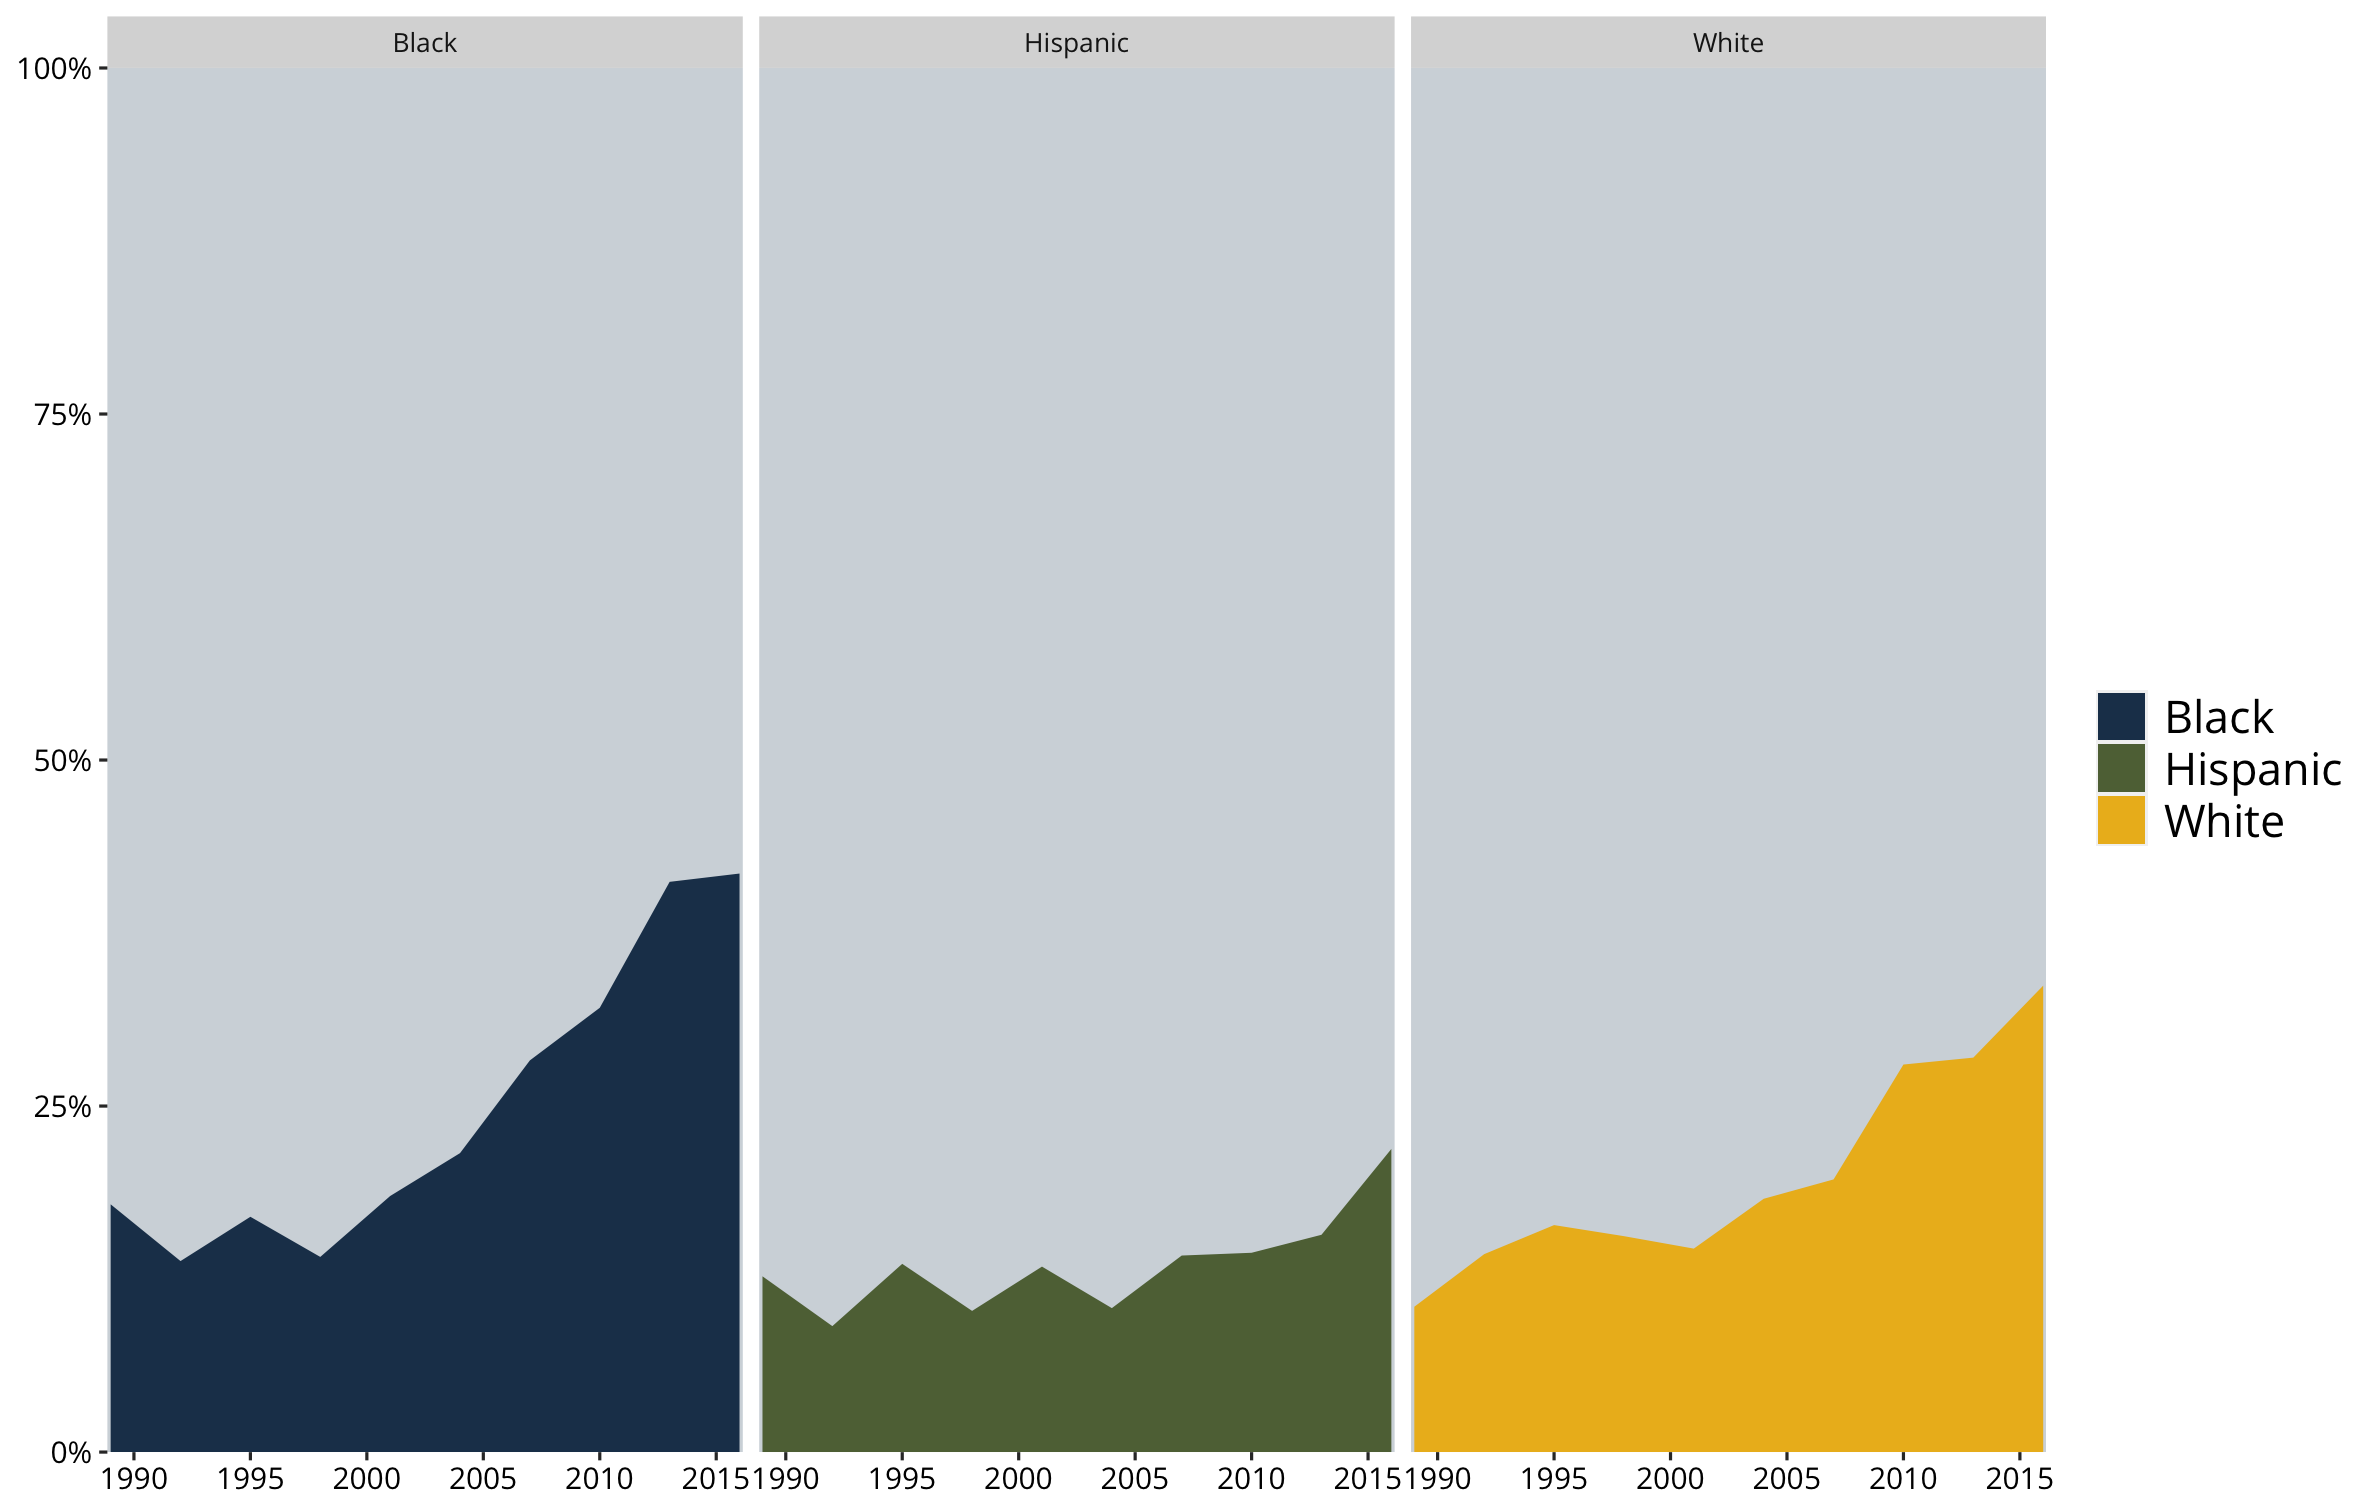
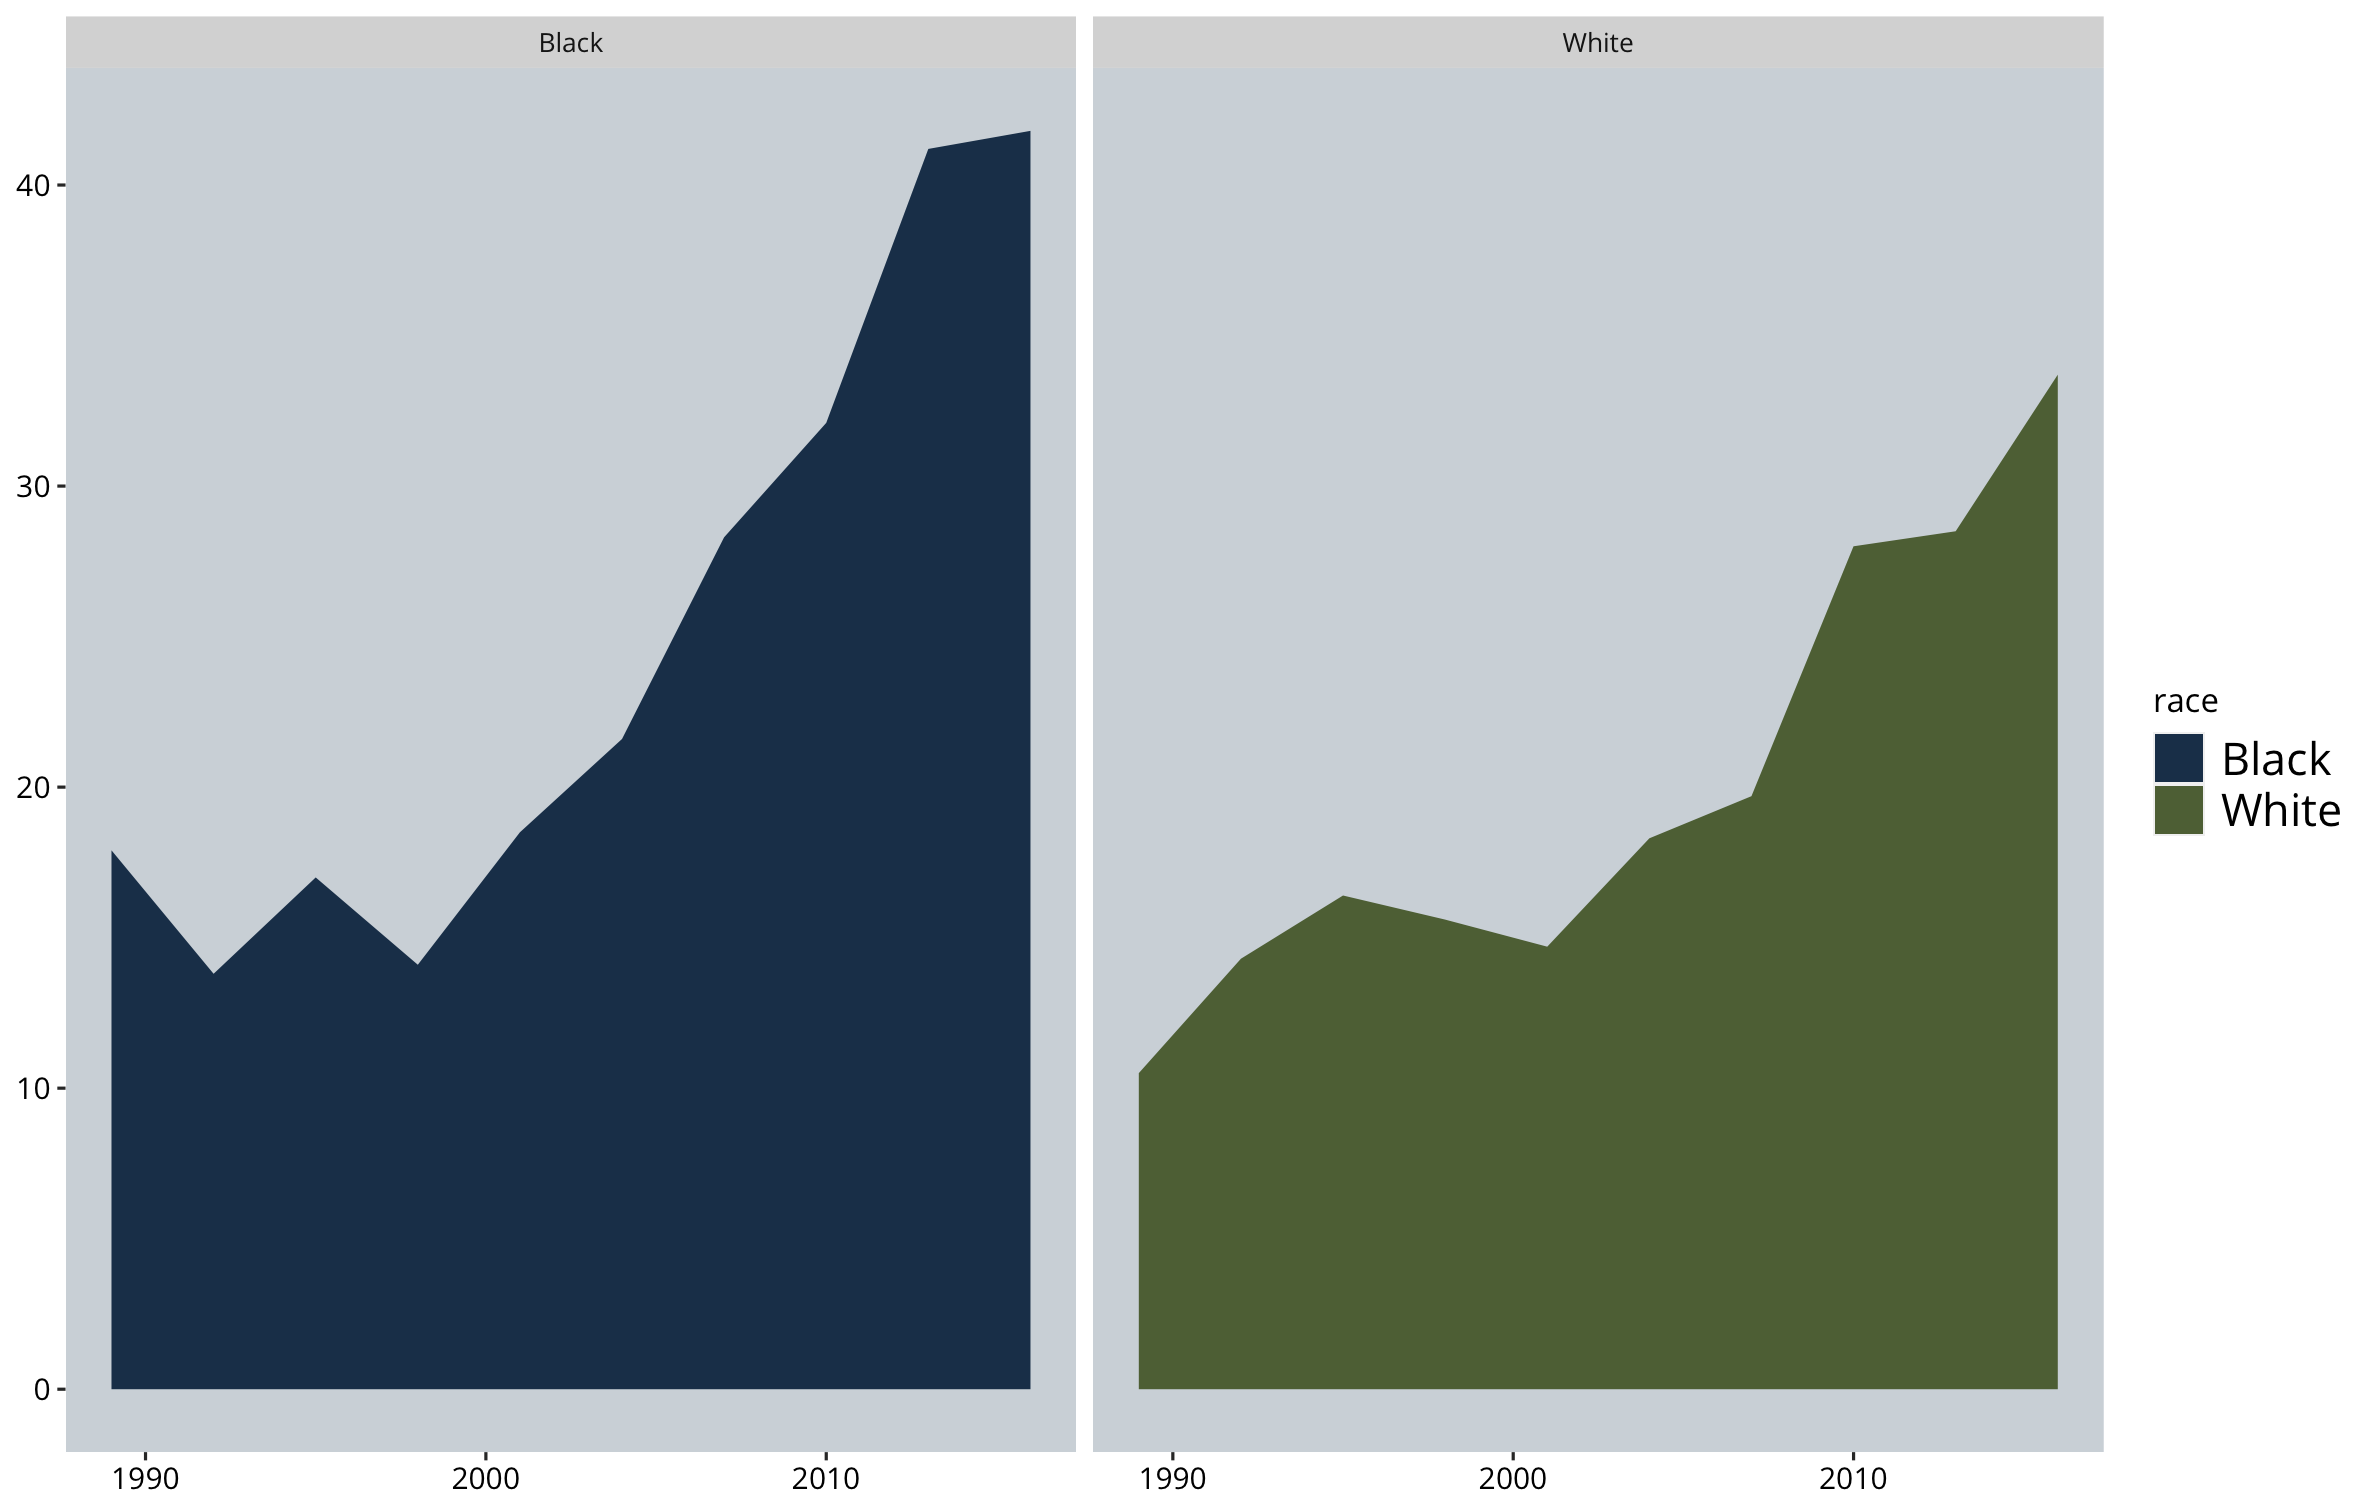
reduced charts two only two groups

diff --git a/charts.html b/charts.html
@@ -207,7 +207,7 @@ class: transition-slide, middle, center
 
 ---
 class: transition-slide
-## .my-green[Time Available in Workday:] .my-yellow["Wow look at all of my free time"]
+## .my-green[Time Available in Workday:] .my-yellow["An abundance of time"]
 
 .pull-left[
 .center[
@@ -268,13 +268,12 @@ class: transition-slide
  &lt;thead&gt;
 &lt;tr&gt;
 &lt;th style="empty-cells: hide;" colspan="1"&gt;&lt;/th&gt;
-&lt;th style="padding-bottom:0; padding-left:3px;padding-right:3px;text-align: center; " colspan="3"&gt;&lt;div style="border-bottom: 1px solid #111111; margin-bottom: -1px; "&gt;% of families with debt&lt;/div&gt;&lt;/th&gt;
+&lt;th style="padding-bottom:0; padding-left:3px;padding-right:3px;text-align: center; " colspan="2"&gt;&lt;div style="border-bottom: 1px solid #111111; margin-bottom: -1px; "&gt;% of families with debt&lt;/div&gt;&lt;/th&gt;
 &lt;/tr&gt;
   &lt;tr&gt;
    &lt;th style="text-align:left;"&gt; Year &lt;/th&gt;
    &lt;th style="text-align:right;"&gt; White &lt;/th&gt;
    &lt;th style="text-align:right;"&gt; Black &lt;/th&gt;
-   &lt;th style="text-align:right;"&gt; Hispanic &lt;/th&gt;
   &lt;/tr&gt;
  &lt;/thead&gt;
 &lt;tbody&gt;
@@ -282,61 +281,51 @@ class: transition-slide
    &lt;td style="text-align:left;"&gt; 1989 &lt;/td&gt;
    &lt;td style="text-align:right;"&gt; 10.5 &lt;/td&gt;
    &lt;td style="text-align:right;"&gt; 17.9 &lt;/td&gt;
-   &lt;td style="text-align:right;"&gt; 12.7 &lt;/td&gt;
   &lt;/tr&gt;
   &lt;tr&gt;
    &lt;td style="text-align:left;"&gt; 1992 &lt;/td&gt;
    &lt;td style="text-align:right;"&gt; 14.3 &lt;/td&gt;
    &lt;td style="text-align:right;"&gt; 13.8 &lt;/td&gt;
-   &lt;td style="text-align:right;"&gt; 9.1 &lt;/td&gt;
   &lt;/tr&gt;
   &lt;tr&gt;
    &lt;td style="text-align:left;"&gt; 1995 &lt;/td&gt;
    &lt;td style="text-align:right;"&gt; 16.4 &lt;/td&gt;
    &lt;td style="text-align:right;"&gt; 17.0 &lt;/td&gt;
-   &lt;td style="text-align:right;"&gt; 13.6 &lt;/td&gt;
   &lt;/tr&gt;
   &lt;tr&gt;
    &lt;td style="text-align:left;"&gt; 1998 &lt;/td&gt;
    &lt;td style="text-align:right;"&gt; 15.6 &lt;/td&gt;
    &lt;td style="text-align:right;"&gt; 14.1 &lt;/td&gt;
-   &lt;td style="text-align:right;"&gt; 10.2 &lt;/td&gt;
   &lt;/tr&gt;
   &lt;tr&gt;
    &lt;td style="text-align:left;"&gt; 2001 &lt;/td&gt;
    &lt;td style="text-align:right;"&gt; 14.7 &lt;/td&gt;
    &lt;td style="text-align:right;"&gt; 18.5 &lt;/td&gt;
-   &lt;td style="text-align:right;"&gt; 13.4 &lt;/td&gt;
   &lt;/tr&gt;
   &lt;tr&gt;
    &lt;td style="text-align:left;"&gt; 2004 &lt;/td&gt;
    &lt;td style="text-align:right;"&gt; 18.3 &lt;/td&gt;
    &lt;td style="text-align:right;"&gt; 21.6 &lt;/td&gt;
-   &lt;td style="text-align:right;"&gt; 10.4 &lt;/td&gt;
   &lt;/tr&gt;
   &lt;tr&gt;
    &lt;td style="text-align:left;"&gt; 2007 &lt;/td&gt;
    &lt;td style="text-align:right;"&gt; 19.7 &lt;/td&gt;
    &lt;td style="text-align:right;"&gt; 28.3 &lt;/td&gt;
-   &lt;td style="text-align:right;"&gt; 14.2 &lt;/td&gt;
   &lt;/tr&gt;
   &lt;tr&gt;
    &lt;td style="text-align:left;"&gt; 2010 &lt;/td&gt;
    &lt;td style="text-align:right;"&gt; 28.0 &lt;/td&gt;
    &lt;td style="text-align:right;"&gt; 32.1 &lt;/td&gt;
-   &lt;td style="text-align:right;"&gt; 14.4 &lt;/td&gt;
   &lt;/tr&gt;
   &lt;tr&gt;
    &lt;td style="text-align:left;"&gt; 2013 &lt;/td&gt;
    &lt;td style="text-align:right;"&gt; 28.5 &lt;/td&gt;
    &lt;td style="text-align:right;"&gt; 41.2 &lt;/td&gt;
-   &lt;td style="text-align:right;"&gt; 15.7 &lt;/td&gt;
   &lt;/tr&gt;
   &lt;tr&gt;
    &lt;td style="text-align:left;"&gt; 2016 &lt;/td&gt;
    &lt;td style="text-align:right;"&gt; 33.7 &lt;/td&gt;
    &lt;td style="text-align:right;"&gt; 41.8 &lt;/td&gt;
-   &lt;td style="text-align:right;"&gt; 21.9 &lt;/td&gt;
   &lt;/tr&gt;
 &lt;/tbody&gt;
 &lt;/table&gt;
@@ -542,6 +531,10 @@ class: transition-slide
 ### Moderate amount
 &lt;img src="charts_files/figure-html/unnamed-chunk-24-1.png" width="792" style="display: block; margin: auto;" /&gt;
 ]
+---
+class: transition-slide
+
+&lt;img src="/Users/ijeamakaanyene/repos/spice_up_your_charts/images/salt_bae_meme.jpeg" width="50%" style="display: block; margin: auto;" /&gt;
 
 ---
 
